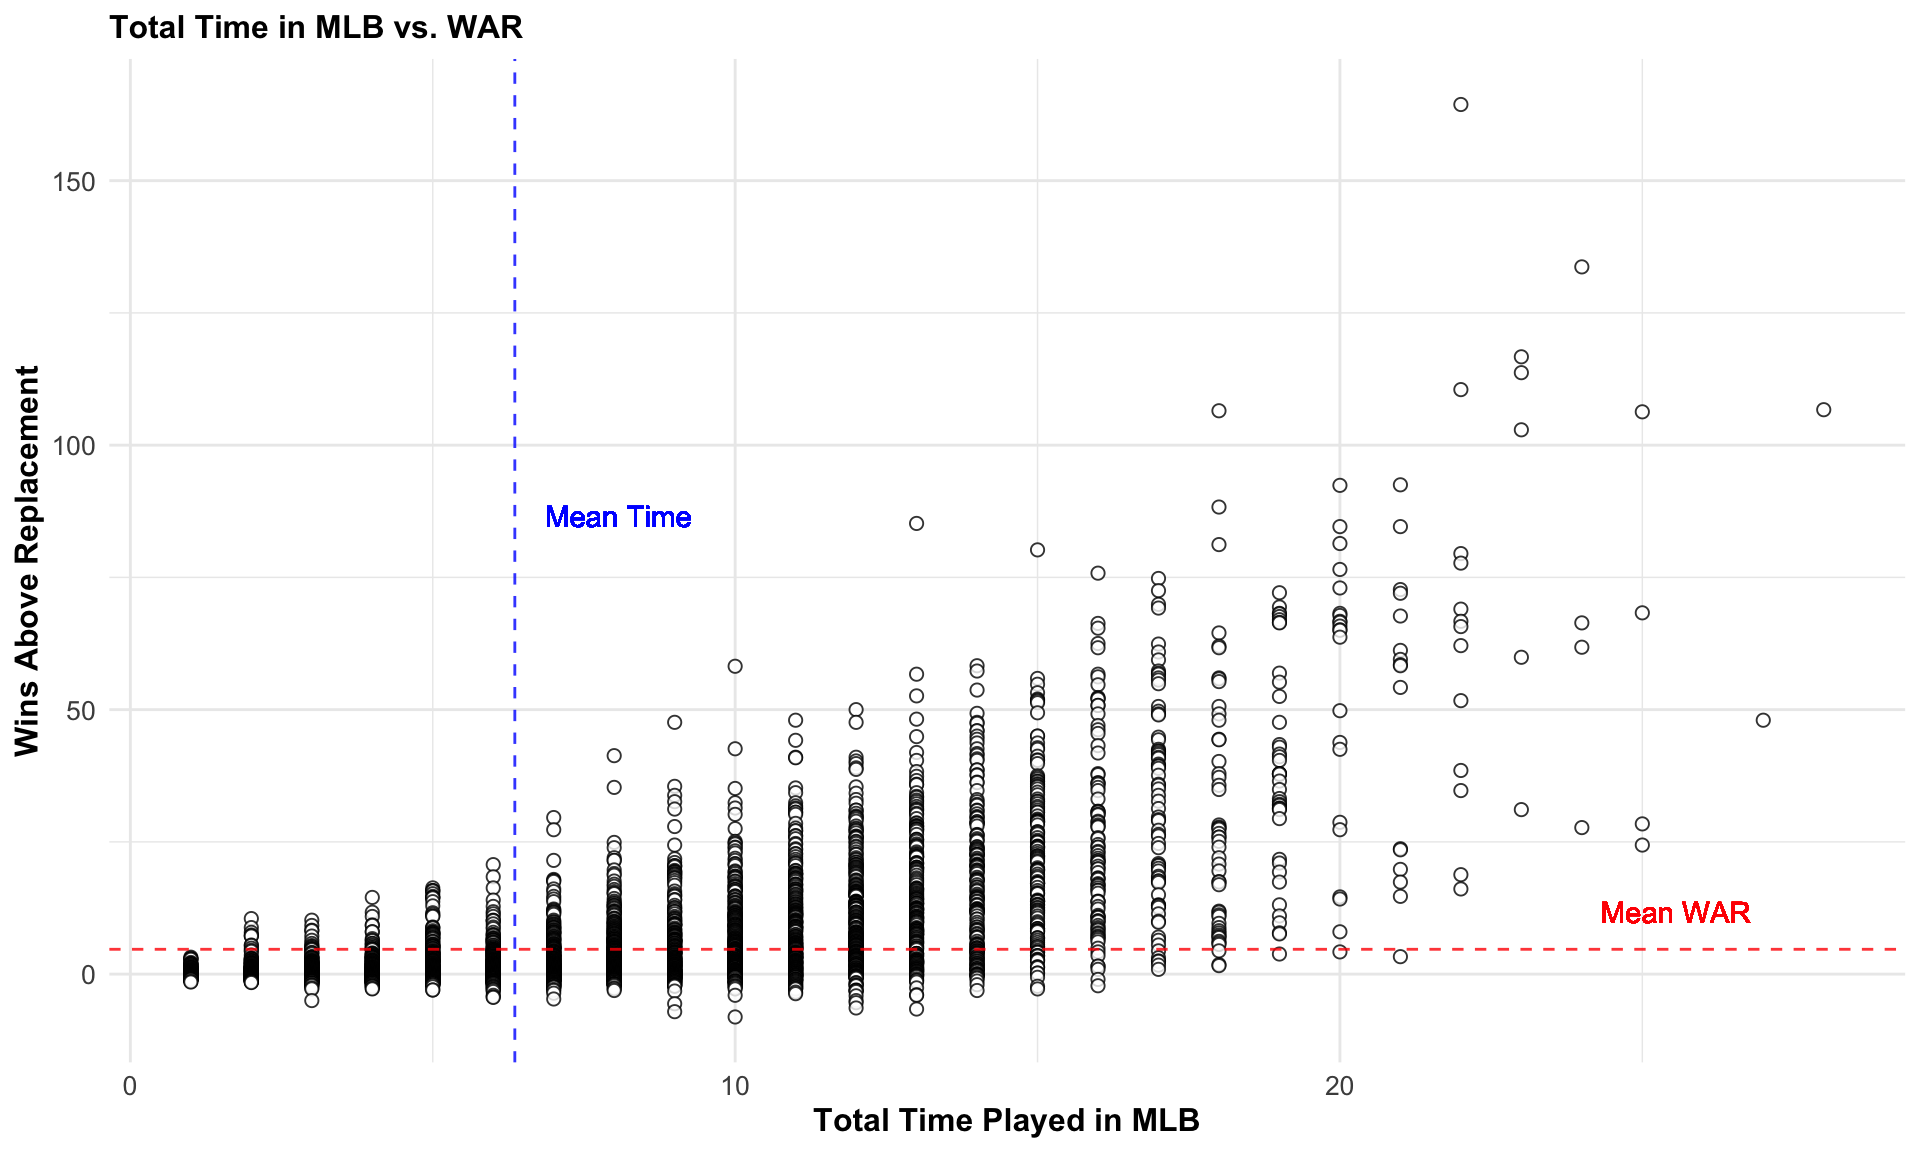
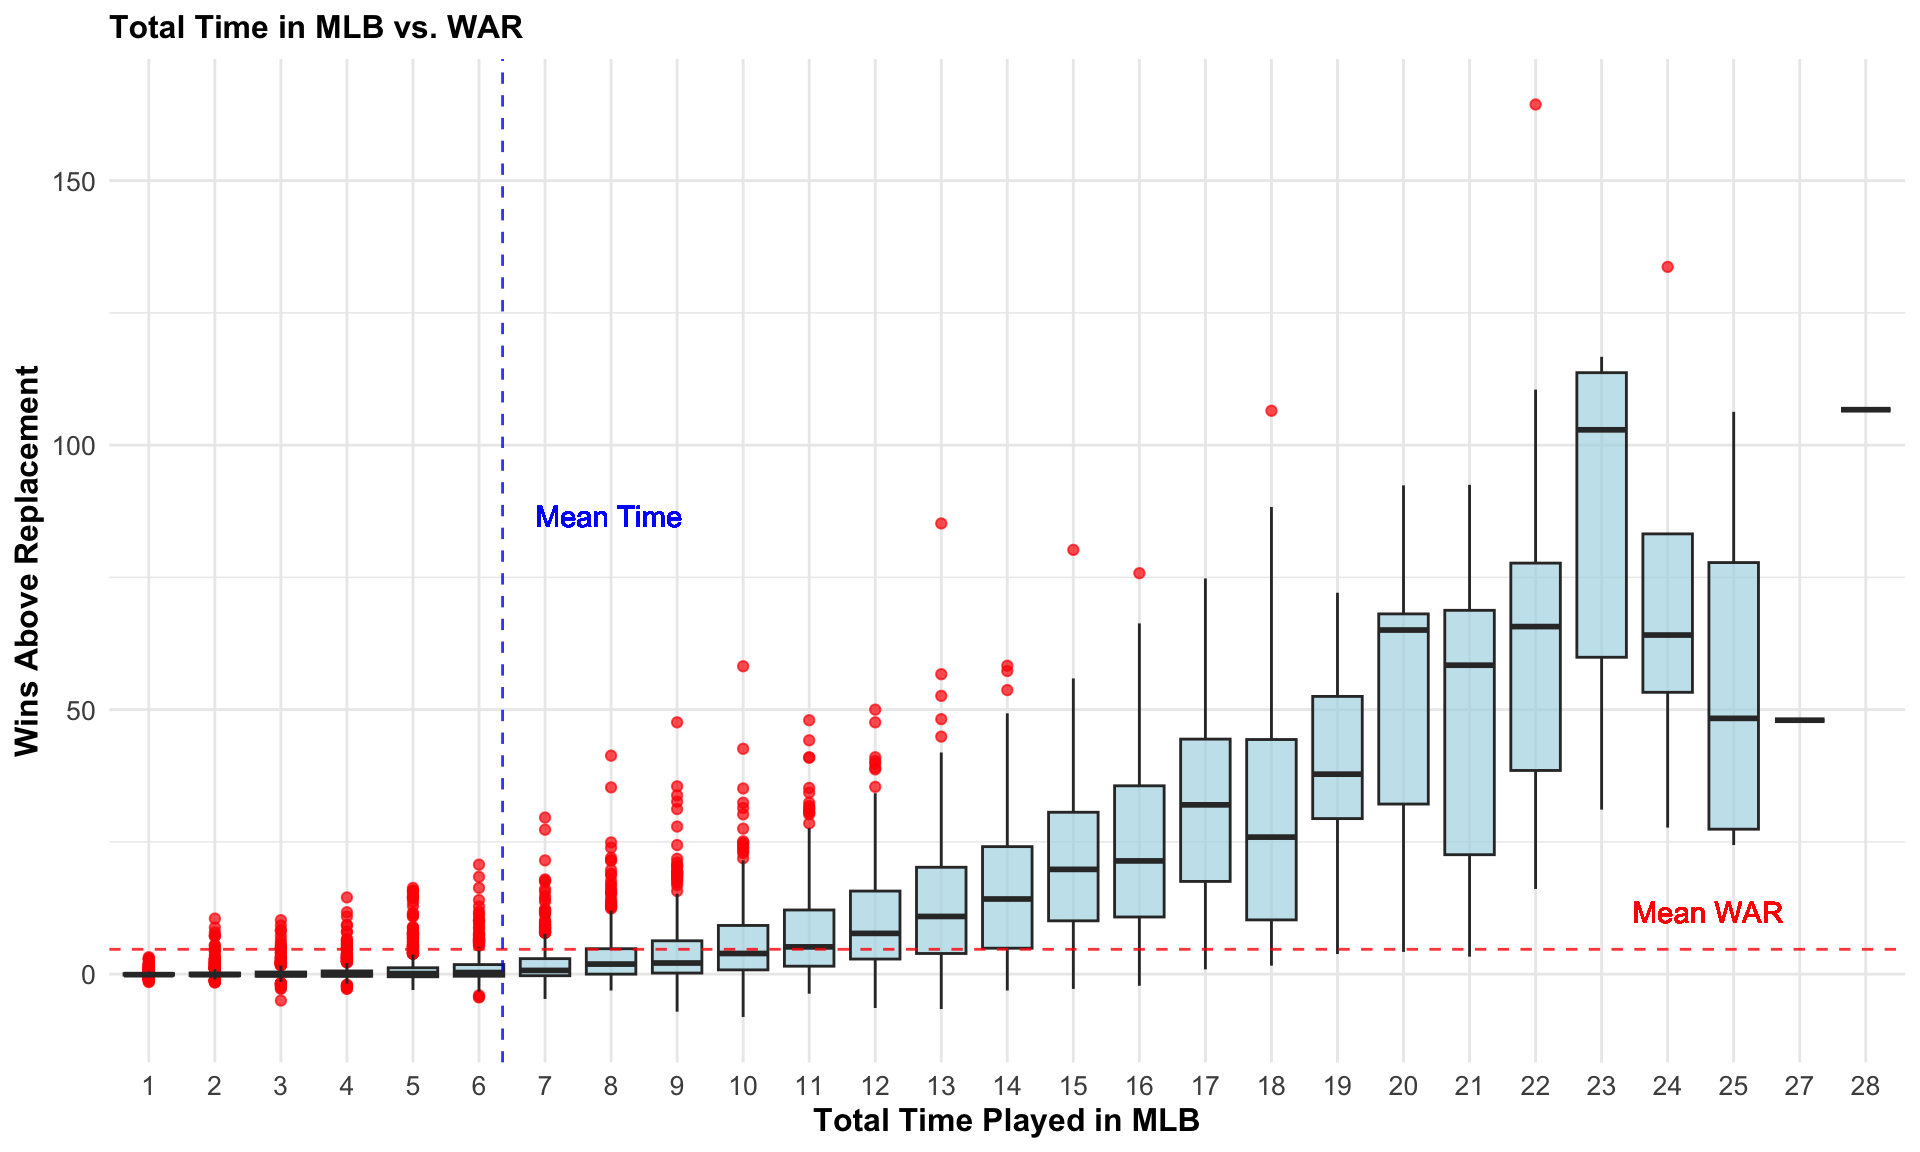
Changed visualization 6 into boxplots.

diff --git a/docs/results.html b/docs/results.html
@@ -521,11 +521,11 @@ pre > code.sourceCode > span > a:first-child::before { text-decoration: underlin
 <span id="cb6-4"><a href="#cb6-4" aria-hidden="true" tabindex="-1"></a></span>
 <span id="cb6-5"><a href="#cb6-5" aria-hidden="true" tabindex="-1"></a>players<span class="sc">$</span>time_played <span class="ot">&lt;-</span> (players<span class="sc">$</span>mlb_played_last <span class="sc">-</span> players<span class="sc">$</span>mlb_played_first) <span class="sc">+</span> <span class="dv">1</span></span>
 <span id="cb6-6"><a href="#cb6-6" aria-hidden="true" tabindex="-1"></a></span>
-<span id="cb6-7"><a href="#cb6-7" aria-hidden="true" tabindex="-1"></a><span class="fu">ggplot</span>(players, <span class="fu">aes</span>(<span class="at">x =</span> time_played, <span class="at">y=</span>fWAR)) <span class="sc">+</span></span>
-<span id="cb6-8"><a href="#cb6-8" aria-hidden="true" tabindex="-1"></a>  <span class="fu">geom_point</span>(<span class="at">fill=</span><span class="st">"white"</span>, <span class="at">shape=</span><span class="dv">21</span>, <span class="at">size=</span><span class="dv">2</span>, <span class="at">alpha =</span> <span class="fl">0.8</span>) <span class="sc">+</span></span>
-<span id="cb6-9"><a href="#cb6-9" aria-hidden="true" tabindex="-1"></a>  <span class="fu">geom_hline</span>(<span class="at">yintercept =</span> <span class="fu">mean</span>(players<span class="sc">$</span>fWAR,<span class="at">na.rm=</span>T), </span>
+<span id="cb6-7"><a href="#cb6-7" aria-hidden="true" tabindex="-1"></a><span class="fu">ggplot</span>(players, <span class="fu">aes</span>(<span class="at">x =</span> <span class="fu">factor</span>(time_played), <span class="at">y =</span> fWAR)) <span class="sc">+</span> </span>
+<span id="cb6-8"><a href="#cb6-8" aria-hidden="true" tabindex="-1"></a>  <span class="fu">geom_boxplot</span>(<span class="at">fill =</span> <span class="st">"lightblue"</span>, <span class="at">alpha =</span> <span class="fl">0.7</span>, <span class="at">outlier.color =</span> <span class="st">"red"</span>, <span class="at">outlier.size =</span> <span class="fl">1.5</span>) <span class="sc">+</span></span>
+<span id="cb6-9"><a href="#cb6-9" aria-hidden="true" tabindex="-1"></a>  <span class="fu">geom_hline</span>(<span class="at">yintercept =</span> <span class="fu">mean</span>(players<span class="sc">$</span>fWAR, <span class="at">na.rm =</span> <span class="cn">TRUE</span>), </span>
 <span id="cb6-10"><a href="#cb6-10" aria-hidden="true" tabindex="-1"></a>             <span class="at">color =</span> <span class="st">"red"</span>, <span class="at">linetype =</span> <span class="st">"dashed"</span>, <span class="at">alpha =</span> <span class="fl">0.8</span>) <span class="sc">+</span> </span>
-<span id="cb6-11"><a href="#cb6-11" aria-hidden="true" tabindex="-1"></a>  <span class="fu">geom_vline</span>(<span class="at">xintercept =</span> <span class="fu">mean</span>(players<span class="sc">$</span>time_played,<span class="at">na.rm=</span>T), </span>
+<span id="cb6-11"><a href="#cb6-11" aria-hidden="true" tabindex="-1"></a>  <span class="fu">geom_vline</span>(<span class="at">xintercept =</span> <span class="fu">mean</span>(players<span class="sc">$</span>time_played, <span class="at">na.rm =</span> <span class="cn">TRUE</span>), </span>
 <span id="cb6-12"><a href="#cb6-12" aria-hidden="true" tabindex="-1"></a>             <span class="at">color =</span> <span class="st">"blue"</span>, <span class="at">linetype =</span> <span class="st">"dashed"</span>, <span class="at">alpha =</span> <span class="fl">0.8</span>) <span class="sc">+</span></span>
 <span id="cb6-13"><a href="#cb6-13" aria-hidden="true" tabindex="-1"></a>  <span class="fu">geom_text</span>(<span class="fu">aes</span>(<span class="at">x =</span> <span class="fu">mean</span>(players<span class="sc">$</span>time_played,<span class="at">na.rm=</span>T)<span class="sc">+</span><span class="dv">8</span>, </span>
 <span id="cb6-14"><a href="#cb6-14" aria-hidden="true" tabindex="-1"></a>                <span class="at">y =</span> <span class="fu">mean</span>(players<span class="sc">$</span>fWAR,<span class="at">na.rm=</span>T)<span class="sc">+</span><span class="dv">5</span>, </span>
@@ -534,15 +534,16 @@ pre > code.sourceCode > span > a:first-child::before { text-decoration: underlin
 <span id="cb6-17"><a href="#cb6-17" aria-hidden="true" tabindex="-1"></a>  <span class="fu">geom_text</span>(<span class="fu">aes</span>(<span class="at">x =</span> <span class="fu">mean</span>(players<span class="sc">$</span>time_played,<span class="at">na.rm=</span>T)<span class="sc">+</span><span class="fl">0.5</span>, </span>
 <span id="cb6-18"><a href="#cb6-18" aria-hidden="true" tabindex="-1"></a>                <span class="at">y =</span> <span class="fu">mean</span>(players<span class="sc">$</span>fWAR,<span class="at">na.rm=</span>T)<span class="sc">+</span><span class="dv">40</span>, </span>
 <span id="cb6-19"><a href="#cb6-19" aria-hidden="true" tabindex="-1"></a>                <span class="at">label =</span> <span class="fu">paste</span>(<span class="st">"Mean Time"</span>)), </span>
-<span id="cb6-20"><a href="#cb6-20" aria-hidden="true" tabindex="-1"></a>            <span class="at">color =</span> <span class="st">"blue"</span>, <span class="at">hjust =</span> <span class="dv">0</span>, <span class="at">vjust =</span> <span class="sc">-</span><span class="dv">10</span>, <span class="at">alpha =</span> <span class="fl">0.8</span>) <span class="sc">+</span>  </span>
+<span id="cb6-20"><a href="#cb6-20" aria-hidden="true" tabindex="-1"></a>            <span class="at">color =</span> <span class="st">"blue"</span>, <span class="at">hjust =</span> <span class="dv">0</span>, <span class="at">vjust =</span> <span class="sc">-</span><span class="dv">10</span>, <span class="at">alpha =</span> <span class="fl">0.8</span>) <span class="sc">+</span> </span>
 <span id="cb6-21"><a href="#cb6-21" aria-hidden="true" tabindex="-1"></a>  <span class="fu">labs</span>(<span class="at">title =</span> <span class="st">"Total Time in MLB vs. WAR"</span>, </span>
-<span id="cb6-22"><a href="#cb6-22" aria-hidden="true" tabindex="-1"></a>       <span class="at">x =</span> <span class="st">"Total Time Played in MLB"</span>, <span class="at">y =</span> <span class="st">"Wins Above Replacement"</span>) <span class="sc">+</span></span>
-<span id="cb6-23"><a href="#cb6-23" aria-hidden="true" tabindex="-1"></a>  <span class="fu">theme_minimal</span>() <span class="sc">+</span></span>
-<span id="cb6-24"><a href="#cb6-24" aria-hidden="true" tabindex="-1"></a>  <span class="fu">theme</span>(<span class="at">plot.title =</span> <span class="fu">element_text</span>(<span class="at">size =</span> <span class="dv">12</span>, <span class="at">face =</span> <span class="st">"bold"</span>),</span>
-<span id="cb6-25"><a href="#cb6-25" aria-hidden="true" tabindex="-1"></a>        <span class="at">axis.title =</span> <span class="fu">element_text</span>(<span class="at">size =</span> <span class="dv">12</span>, <span class="at">face =</span> <span class="st">"bold"</span>),</span>
-<span id="cb6-26"><a href="#cb6-26" aria-hidden="true" tabindex="-1"></a>        <span class="at">axis.text =</span> <span class="fu">element_text</span>(<span class="at">size =</span> <span class="dv">10</span>),</span>
-<span id="cb6-27"><a href="#cb6-27" aria-hidden="true" tabindex="-1"></a>        <span class="at">legend.title =</span> <span class="fu">element_text</span>(<span class="at">size =</span> <span class="dv">10</span>, <span class="at">face =</span> <span class="st">"bold"</span>),</span>
-<span id="cb6-28"><a href="#cb6-28" aria-hidden="true" tabindex="-1"></a>        <span class="at">legend.text =</span> <span class="fu">element_text</span>(<span class="at">size =</span> <span class="dv">10</span>))</span></code><button title="Copy to Clipboard" class="code-copy-button"><i class="bi"></i></button></pre></div>
+<span id="cb6-22"><a href="#cb6-22" aria-hidden="true" tabindex="-1"></a>       <span class="at">x =</span> <span class="st">"Total Time Played in MLB"</span>, </span>
+<span id="cb6-23"><a href="#cb6-23" aria-hidden="true" tabindex="-1"></a>       <span class="at">y =</span> <span class="st">"Wins Above Replacement"</span>) <span class="sc">+</span></span>
+<span id="cb6-24"><a href="#cb6-24" aria-hidden="true" tabindex="-1"></a>  <span class="fu">theme_minimal</span>() <span class="sc">+</span></span>
+<span id="cb6-25"><a href="#cb6-25" aria-hidden="true" tabindex="-1"></a>  <span class="fu">theme</span>(<span class="at">plot.title =</span> <span class="fu">element_text</span>(<span class="at">size =</span> <span class="dv">12</span>, <span class="at">face =</span> <span class="st">"bold"</span>),</span>
+<span id="cb6-26"><a href="#cb6-26" aria-hidden="true" tabindex="-1"></a>        <span class="at">axis.title =</span> <span class="fu">element_text</span>(<span class="at">size =</span> <span class="dv">12</span>, <span class="at">face =</span> <span class="st">"bold"</span>),</span>
+<span id="cb6-27"><a href="#cb6-27" aria-hidden="true" tabindex="-1"></a>        <span class="at">axis.text =</span> <span class="fu">element_text</span>(<span class="at">size =</span> <span class="dv">10</span>),</span>
+<span id="cb6-28"><a href="#cb6-28" aria-hidden="true" tabindex="-1"></a>        <span class="at">legend.title =</span> <span class="fu">element_text</span>(<span class="at">size =</span> <span class="dv">10</span>, <span class="at">face =</span> <span class="st">"bold"</span>),</span>
+<span id="cb6-29"><a href="#cb6-29" aria-hidden="true" tabindex="-1"></a>        <span class="at">legend.text =</span> <span class="fu">element_text</span>(<span class="at">size =</span> <span class="dv">10</span>))</span></code><button title="Copy to Clipboard" class="code-copy-button"><i class="bi"></i></button></pre></div>
 </details>
 <div class="cell-output-display">
 <div class="quarto-figure quarto-figure-center">
